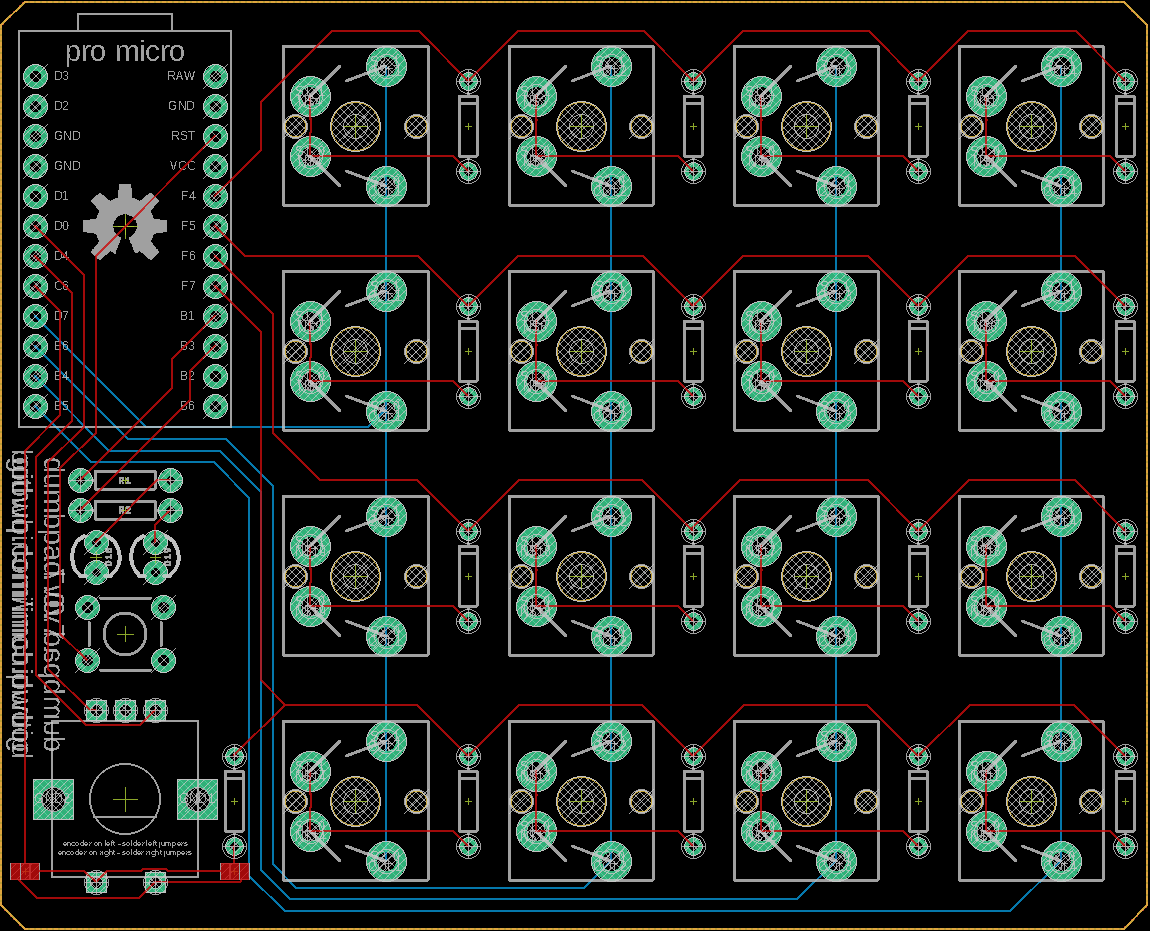
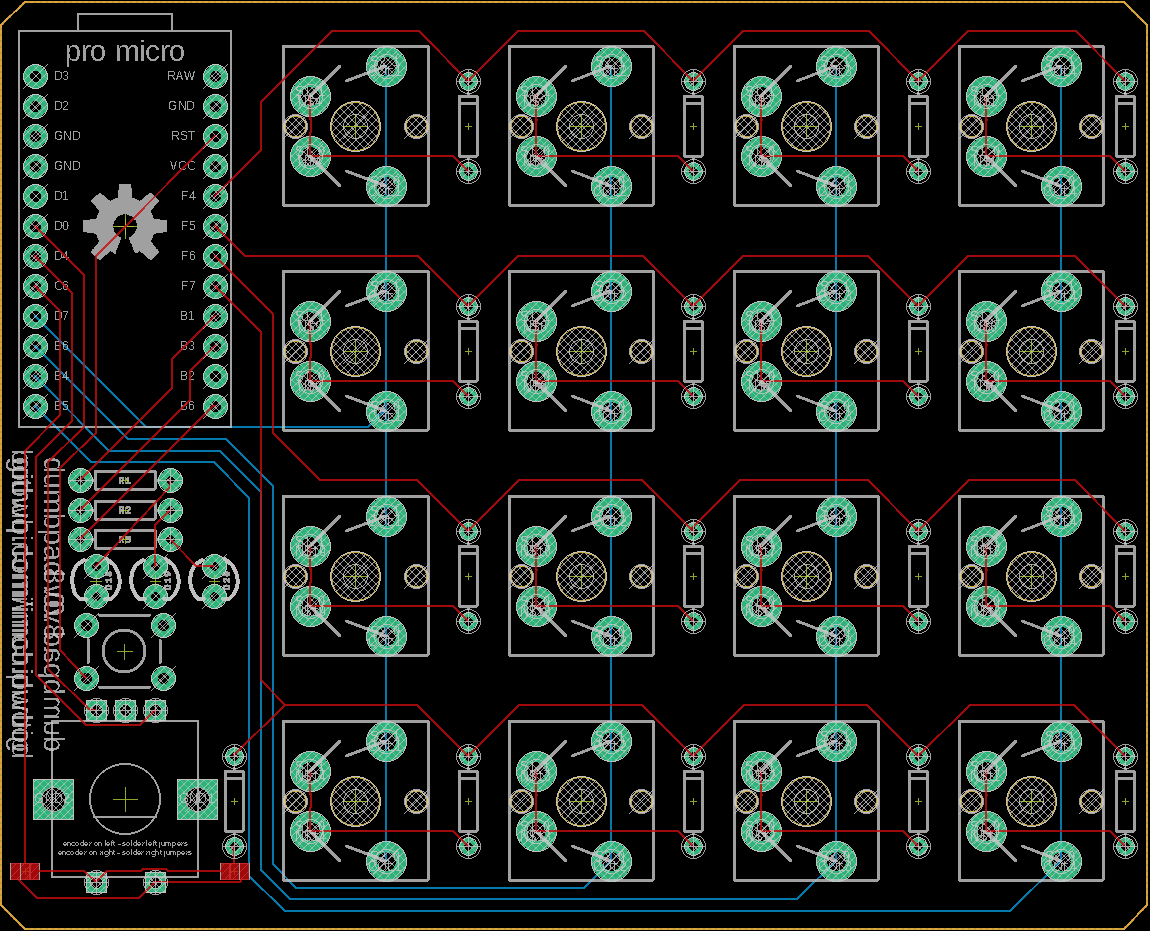
added 3rd LED for numlock indication

Changed region(s): [[0.0304, 0.5295, 0.213, 0.7476], [0.1217, 0.4984, 0.1522, 0.5295]]

diff --git a/README.md b/README.md
@@ -15,6 +15,7 @@ It is designed to run [QMK firmware](https://github.com/qmk/qmk_firmware) - chec
 - v0.7 PCB is flippable. Two jumpers must be soldered:
   - Encoder on left (default layout) - solder the left side of the jumpers to the center
   - Encoder on right (PCB upside down) - solder the right side of the jumpers to the center
+- v0.8 PCB adds a 3rd LED - default use is to indicate if NUMLOCK is on
 
 #### dumbpad v0.2, PCB by [OSH Park](https://www.oshpark.com)
 ![dumbpad](https://i.imgur.com/sS3fq1Z.jpg)
@@ -29,8 +30,8 @@ It is designed to run [QMK firmware](https://github.com/qmk/qmk_firmware) - chec
 * 1x Arduino Pro Micro or pin-compatible ATmega32u4-based MCU
 * 1x EC11 rotary encoder with pushbutton (7-pin)
 * (optional) 1x 6mm tactile switch (to reset MCU)
-* (optional) 2x 3mm LEDs (whatever color)
-* (optional) 2x 220ohm or similar resistors for the LEDS (not needed if not adding LEDs)
+* (optional) 3x 3mm LEDs (whatever color)
+* (optional) 3x 220ohm or similar resistors for the LEDS (not needed if not adding LEDs)
 
 #### Notes
 - No case is currently available
